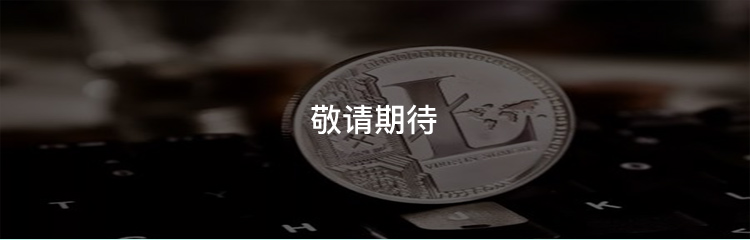
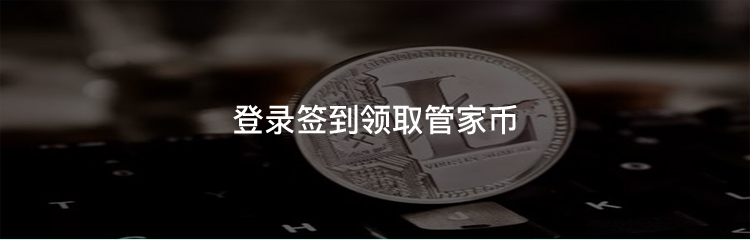
111 新需求 活动一

Changed region(s): [[0.3067, 0.4375, 0.7053, 0.5833]]

diff --git a/futures-butler/src/page/home/welfare_details.vue b/futures-butler/src/page/home/welfare_details.vue
@@ -2,34 +2,66 @@
   <div id="welfare_details" :style="{height:clientHeight}">
     <mt-header fixed title="管家福利" >
         <mt-button slot="left" icon="back" @click="goBack"></mt-button>
+        
+        <mt-button slot="right" @click="askServer" v-if="id == 1">
+          <span class="wenhao"></span>
+        </mt-button>
     </mt-header>
     <div class="wrap">
         <div class="box" >
             <img :src="currentItem.img" alt="01">
             <p>{{currentItem.text}}</p>
         </div>
+        <template v-if="id == 1">
+            <div class="calendar_list_wrap">
+              <ul class="calendar_list">
+                <li :class="['item',{'active':today.getDate()===item.day}]" v-for="(item, index) in weekList"  :key="index">
+                  <div class="weekday">{{item.weekday}}</div>
+                  <div class="date">{{item.day}}</div>
+                </li>
+              </ul>
+              <div class="Sign_in_wrap">
+                  <div class="left_box">
+                      <span class="number">{{(signInfo.signDay||0)+'.00'}}</span>
+                      <div>当前管家币丨累计签到<span class="color1">{{signInfo.signDay||0}}</span>天</div>
+                  </div>
+                  <div class="right_box">
+                      <button @click="SignIn">{{signText}}</button>
+                  </div>
+              </div>
+          </div>
+        </template>
         
     </div>
-    
+    <AlertMessage v-if="isShow" :type="type" :text="text" :comfirm="draggleShow" />
   </div>
 </template>
 
 <script>
   import pro from '../../assets/js/common'
-  
+  import AlertMessage from '../../components/AlertMessage'
   const local = pro.local;
   
   export default {
     name: "welfare_details",
     components: {
-     
+      AlertMessage
     },
     props: ['id'],
     data() {
       return {
+        user: {},
         isLogin: false,
         isShow: false,
+        text:'',
+        type: 1,
         idList: [],
+        weekList:[],
+        today: new Date(),
+        signInfo:{
+          signDay: 0,
+          signList: []
+        },
         imgList: [{
             img: require('../../assets/images/home/activity01_banner.jpg'),
             id: 1,
@@ -51,6 +83,14 @@
         return this.imgList.find((item)=>{
           return item.id == this.id
         })
+      },
+      signText () {
+        return this.isSign?`已签到${this.signInfo.signDay}天`:'签到领管家币'
+      },
+      isSign () {
+        let today = pro.getDate(this.today,'y-m-d')
+        if (!this.signInfo.signList) return false;
+        return this.signInfo.signList.includes(today)
       }
       
     },
@@ -65,6 +105,89 @@
           path: path
         });
       },
+      askServer () {
+        this.text = '连续签到7天后可联系客服领取礼包'
+        this.type = 1
+        this.draggleShow()
+      },
+      draggleShow () {
+        this.isShow = !this.isShow
+      },
+      setSignInfo () {
+         this.signInfo.signDay++
+         this.signInfo.signList.push(pro.getDate(this.today,'y-m-d'))
+         pro.local.set('signInfo', this.signInfo)
+      },
+      SignIn () {
+         if (this.user) {
+           if(!this.isSign){
+              this.type = 0
+              this.draggleShow()
+              this.setSignInfo()
+              this.text = this.signInfo.signDay
+           }else{
+             this.$toast({
+                message: '您已签过到了',
+                duration: 1000
+            })
+           }
+         }else{
+           this.$toast({
+                message: '签到需要登录后才能进行',
+                duration: 1000
+            })
+         }
+      },
+      getWeekDay (time) {
+				const weekList = ['周日', '周一', '周二', '周三', '周四', '周五', '周六']
+				return weekList[time]
+			},
+      setWeekList () {
+        let today  = new Date();
+        let year = today.getFullYear();
+				let mouth = today.getMonth();
+				let date = today.getDate();
+				let weekday = today.getDay();
+				let mouthDayList = [];
+				const mouthDayLength = [31,28,31,30,31,30,31,31,30,31,30,31]
+				//判断当月的天数
+				//处理闰年二月
+				if (year%4 === 0 ) {
+					mouthDayLength[1] = 29
+				}
+				let mouthDay = mouthDayLength[mouth];
+				//当月第一天 
+				for (let index = 1; index <= 7; index++) {
+          //循环遍历 得到每天的星期数   星期数 = (天数差%7 + 当天星期数)%7   如果为负数加7 解决周六问题
+
+          //放大处理当天为周日的情况
+          if(weekday == 0 ){
+            weekday = 7
+          }
+          let differIndex = index - weekday;
+          let indexDate =  date + differIndex;
+          //每月最后几天
+          if (indexDate>mouthDay) {
+            indexDate = differIndex - 1; //index是从1开始取的
+          }
+          if (indexDate<=0) {
+            indexDate = mouthDayLength[mouth-1] + differIndex + 1; //处理每月开始那几天
+          }
+					let indexDay = {
+						day: indexDate,
+						weekday: this.getWeekDay (index%7),
+					}
+					this.weekList.push(indexDay)
+					 	
+        }
+      }
+    },
+    created() {
+      this.setWeekList()
+    },
+    activated() {
+      this.signInfo = pro.local.get('signInfo')||this.signInfo
+      this.user = pro.local.get('user')
     },
   };
 </script>
@@ -75,6 +198,13 @@
     width: 7.5rem;
     padding-top: 0.96rem;
     background-color: $bgButler;
+  }
+  .wenhao{
+    display: inline-block;
+    width: 0.5rem;
+	  height: 0.5rem;
+    background: url('../../assets/images/home/wenhao.png') center no-repeat;
+    background-size: 0.16rem 0.27rem;
   }
   .box{
     
@@ -87,6 +217,66 @@
 
   }
 
-
-
+.calendar_list_wrap{
+  width: 6.9rem;
+  margin: 0 auto;
+  border-radius: 0.1rem;
+  box-shadow: 1px 1px 10px #ccc;
+}
+.calendar_list{
+  display: flex;
+  justify-content: center;
+  align-items: center;
+  background-color: #fff;
+  .item{
+    flex: 1;
+    text-align: center;
+    padding: 0.24rem 0;
+    border: solid 1px #bbf6ec;
+    margin-left: 0.03rem;
+  }
+  .item:first-child{
+    margin-left: 0;
+  }
+  .item.active{
+    background-color: $bgButler;
+  }
+  .weekday{
+    @include font($fs24,0.32rem,#788b87);
+    padding-bottom: 0.1rem;
+  }
+  .date{
+    @include font($fs28,0.32rem,#283835);
+  }
+}
+.Sign_in_wrap{
+  display: flex;
+  justify-content: center;
+  align-items: center;
+  padding: 0.24rem;
+  .left_box,.right_box{
+    text-align: left;
+  }
+  .left_box{
+    flex: 2;
+    @include font(0.28rem,0.32rem,#283835,left);
+    .number{
+      @include font(0.68rem,1rem,#169781,left);
+    }
+    .color1{
+      color: #de8c22;
+      padding: 0 0.1rem;
+    }
+  }
+  .right_box{
+    flex: 1;
+    button{
+      width: 2.4rem;
+      height: 0.8rem;
+      background-color: #169781;
+      border-radius: 0.1rem;
+      @include font(0.28rem,0.8rem,#ffffff);
+    }
+  }
+}
 </style>

diff --git a/futures-butler/src/components/AlertMessage.vue b/futures-butler/src/components/AlertMessage.vue
@@ -1,0 +1,115 @@
+<template>
+	<div id="alertMessage">
+		<div class="alert_wrap">
+			<template v-if="myType==1">
+				<div class="content_box">
+					<span class="icon"></span>
+					<p class="content">{{typeText}}</p>
+				</div>
+				<button class="btn" @click="clickHandle">我知道了</button>
+			</template>
+			<template v-else>
+				<div class="content_box">
+					<span class='close' @click="closeHandle"></span>
+					<span class="icon"></span>
+					<p class="text">签到成功</p>
+					<p class="content">获得1个管家币,已累计签到<span class="color1">{{text}}</span>天</p>
+				</div>
+			</template>
+			
+		</div>
+		
+	</div>
+</template>
+
+<script>
+	export default{
+		name:"AlertMessage",
+		props:{
+			comfirm: Function,
+			text: [String, Number],
+			type: Number
+		},
+		data(){
+			return{
+				isShow: false,
+				myType: this.type
+			}
+		},
+		computed: {
+			typeText () {
+				return typeof this.text === 'number'?`再签${7 - this.text}天有礼`:this.text
+			}
+		},
+		methods:{
+			clickHandle () {
+				this.comfirm()
+			},
+			closeHandle () {
+				this.myType = 1
+			}
+		}
+	}
+</script>
+
+<style lang="scss" scoped>
+	@import "../assets/css/common.scss";
+	#alertMessage{
+		display: flex;
+		position: absolute;
+		top: 0;
+		left: 0;
+		justify-content: center;
+		align-items: center;
+		width: 100%;
+		height: 100vh;
+		background-color: rgba(0,0,0,0.4);
+	}
+	.alert_wrap{
+		width: 6.12rem;
+		background-color: #ffffff;
+		border-radius: 0.2rem;
+		text-align: center;
+		
+	}
+	.content_box{
+		position: relative;
+		border-bottom: 1px solid #d5d6d8;
+	}
+	.close{
+		position: absolute;
+		right: 0;
+		top: 0;
+		display: inline-block;
+		width: 0.8rem;
+		height: 0.8rem;
+		background: url('../assets/images/home/close.png') center no-repeat;
+		background-size: 0.3rem 0.3rem;
+		
+	}
+	.icon{
+		display: inline-block;
+		width: 1rem;
+		height: 1rem;
+		background: url('../assets/images/home/alert_icon.png') center no-repeat;
+		background-size: cover;
+		margin: 0.48rem 0 0 0; 
+	}
+	.content{
+		
+		@include font(0.28rem,0.88rem,#283835)	
+	}
+	.btn{
+		width: 100%;
+		background-color: #ffffff;
+		@include font(0.36rem,0.88rem,#169781);
+		border-radius: 0.2rem;
+	}
+	.text{
+		@include font(0.36rem,0.88rem,#169781);
+	}
+	.color1{
+      color: #de8c22;
+      padding: 0 0.1rem;
+    }
+</style>
